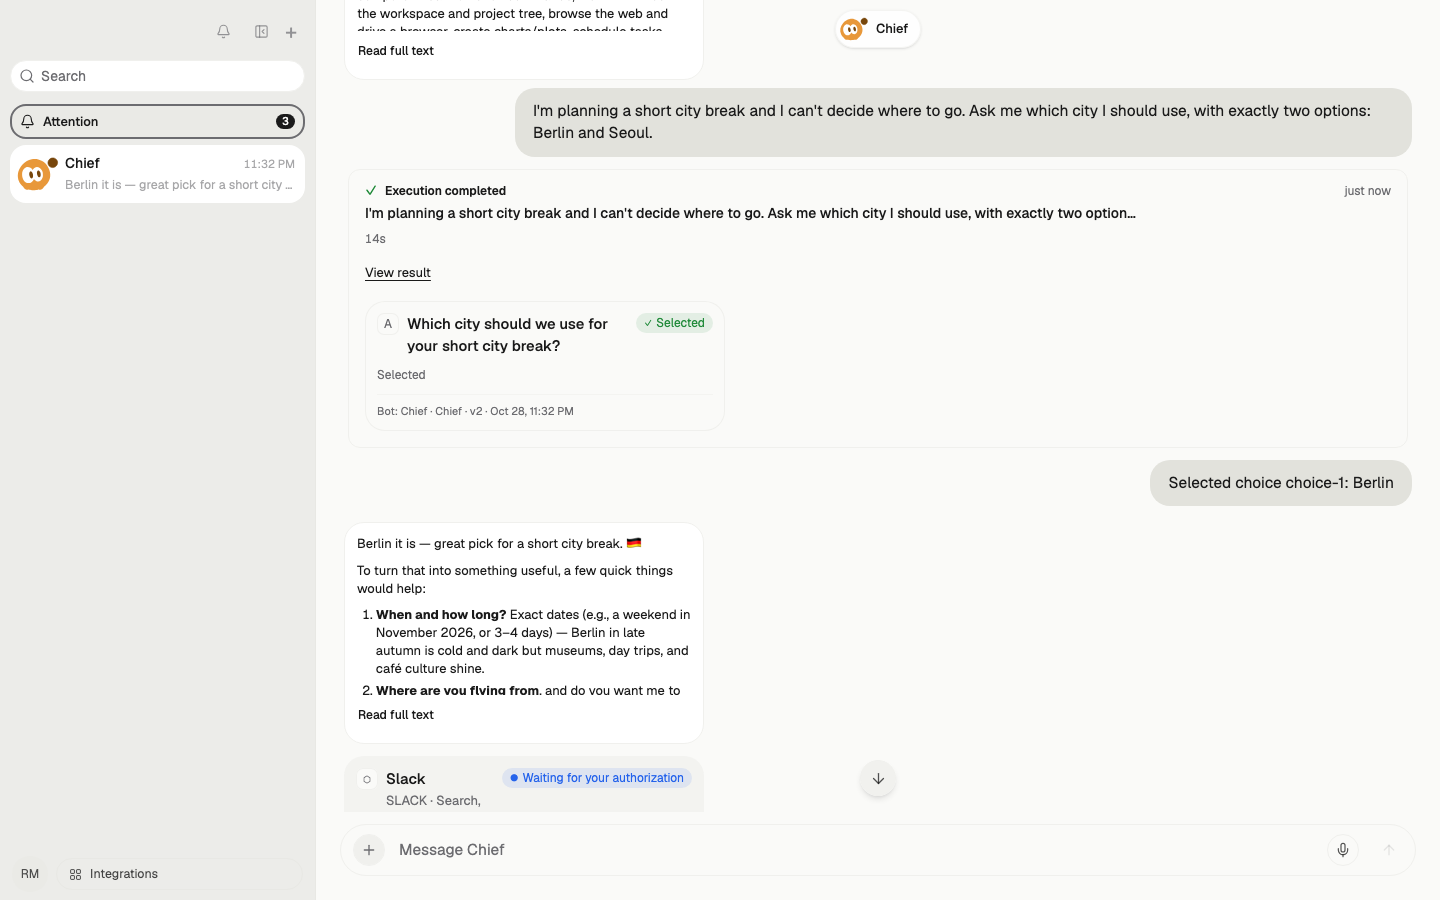
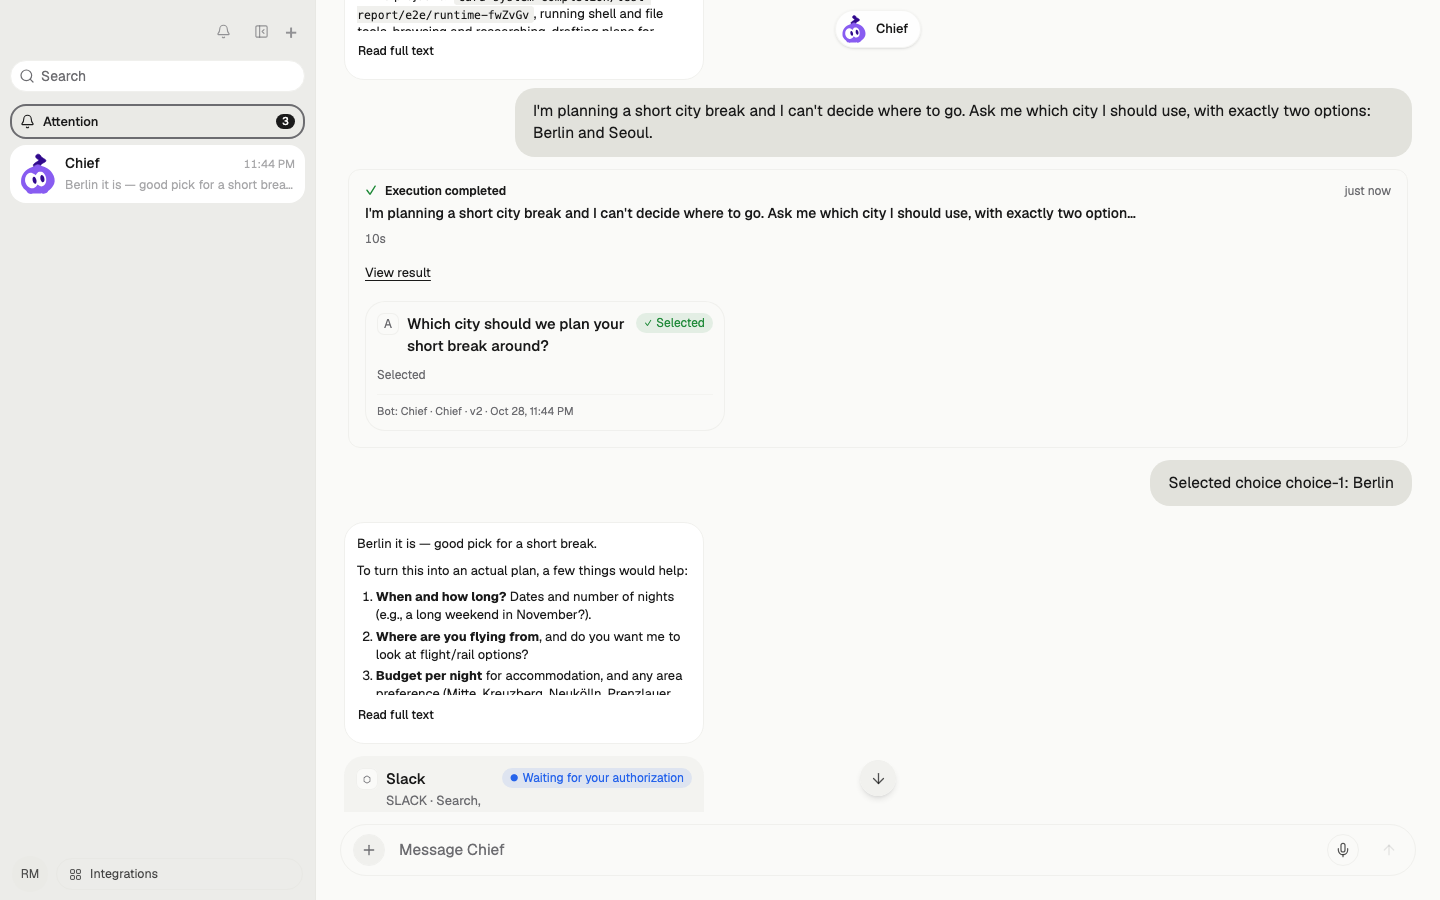
fix(card): give the resumed model the selected choice label——真模型实跑 qwen3.8-max 发现 choice 恢复把 choice-N wire id 当作 ask_user 结果传回模型（用户选 Berlin，模型却回复 Seoul）；新增 resumeAnswerFromAsk 只把 choice 的 id 映射为 label，free-text 与 approval/plan/budget action id 保持不变；单测 4/4；修复后 qwen3.8-max 1/1（29.8s）与 qwen3.8-flash 1/

diff --git a/packages/adapters/src/executor.ts b/packages/adapters/src/executor.ts
@@ -777,6 +777,25 @@ export function isProtectedComputerLifecycleCommand(command: string): boolean {
   return false;
 }
 
+export type AnsweredAskForResume = {
+  status?: string;
+  answer?: string;
+  actions?: ReadonlyArray<{ id: string; label: string }>;
+};
+
+/**
+ * A choice ask stores the opaque action id (`choice-N`). The resumed Runtime
+ * hands this string to the model as the ask_user tool result, so the model must
+ * receive the human label the user actually chose, not the wire id.
+ */
+export function resumeAnswerFromAsk(block: AnsweredAskForResume): string | undefined {
+  if (block.status !== "answered" || typeof block.answer !== "string") return undefined;
+  const choice = block.actions?.find(
+    (action) => action.id === block.answer && /^choice-\d+$/.test(action.id),
+  );
+  return choice?.label ?? block.answer;
+}
+
 /** Cap the roster so a large Space cannot flood the prompt. */
 const BOT_DIRECTORY_LIMIT = 40;
 
@@ -5867,13 +5886,7 @@ export function createRunExecutor(deps: ExecutorDeps) {
               block.kind === "ask"
             ) {
               foundAsk = true;
-              if (
-                "status" in block &&
-                block.status === "answered" &&
-                "answer" in block &&
-                typeof block.answer === "string"
-              )
-                resumeAnswer = block.answer;
+              resumeAnswer = resumeAnswerFromAsk(block);
               break;
             }
           }

diff --git a/packages/adapters/src/executor-resume-answer.test.ts b/packages/adapters/src/executor-resume-answer.test.ts
@@ -1,0 +1,49 @@
+import { describe, expect, it } from "vitest";
+import { resumeAnswerFromAsk } from "./executor.js";
+
+describe("resumeAnswerFromAsk", () => {
+  it("resolves a choice id to the label the model must see", () => {
+    expect(
+      resumeAnswerFromAsk({
+        status: "answered",
+        answer: "choice-2",
+        actions: [
+          { id: "choice-1", label: "Berlin" },
+          { id: "choice-2", label: "Seoul" },
+        ],
+      }),
+    ).toBe("Seoul");
+  });
+
+  it("keeps free-text answers unchanged", () => {
+    expect(resumeAnswerFromAsk({ status: "answered", answer: "Paris" })).toBe("Paris");
+  });
+
+  it("does not rewrite approval or plan action ids", () => {
+    expect(
+      resumeAnswerFromAsk({
+        status: "answered",
+        answer: "allow",
+        actions: [{ id: "allow", label: "Allow once" }],
+      }),
+    ).toBe("allow");
+    expect(
+      resumeAnswerFromAsk({
+        status: "answered",
+        answer: "approve",
+        actions: [{ id: "approve", label: "Approve plan" }],
+      }),
+    ).toBe("approve");
+  });
+
+  it("returns undefined until the ask is answered", () => {
+    expect(
+      resumeAnswerFromAsk({
+        status: "pending",
+        answer: "choice-1",
+        actions: [{ id: "choice-1", label: "Berlin" }],
+      }),
+    ).toBeUndefined();
+    expect(resumeAnswerFromAsk({ status: "answered" })).toBeUndefined();
+  });
+});

diff --git a/docs/cards/CARD-01E-delivery.md b/docs/cards/CARD-01E-delivery.md
@@ -33,6 +33,7 @@
 - **旧 `connect` 只读回放**：`apps/web/src/pages/Shell.tsx` 渲染存量的连接状态卡（名称、首字母、Connected/Not connected），没有按钮或链接；E2E fixture 与 `card-display-content.spec.ts` 断言零可操作元素。
 - **过期/归档/失权即时退出**：`attention.postgres.test.ts` 新增过期即时移除、群内发卡 Bot 归档、目标群失去管理权限三个用例；总数在三种情况下都精确回落。
 - **FIX-127 后的过期 E2E 断言**：`apps/web/e2e/approval-resume.spec.ts` 仍期待“回答后再次提问”的旧脚本行为，自 `b08c6e1`（FIX-127）起与持久化 Runtime 契约相反。已在 base `8054cac` 上复现同一红，再按“回答后同一 Run 完成、不再产生第二张 pending 卡”更新断言；更新后通过。
+- **choice 答案 label**：真模型验证暴露 selected choice 恢复时把 `choice-N` wire id 交给模型（用户选 Berlin，`qwen3.8-max` 回复 Seoul）。`resumeAnswerFromAsk` 现在只把 choice 的 id 解析成 label；free-text、approval/plan/budget action id 保持原样。单测 4/4，max 复跑回复 Berlin。
 
 ### 3. Gate 与兼容
 
@@ -73,14 +74,14 @@
 | `pnpm db:generate` | exit 0 |
 | `pnpm lint` | 0 error（76 warning / 5 info，均为既有） |
 | `pnpm check` | 18/18 tasks successful |
-| `pnpm test:unit` | 458/459 files；**5541 passed / 2 skipped / 4 failed**。4 条失败全部是 `infra/sandboxes/supervisor/src/computer-loopback.test.ts` 的 401；在 base `8054cac` 上同红（`logs/supervisor-baseline-red.txt`），与本 diff 无关 |
-| `pnpm test:postgres` | 最终在无并发负载下完整重跑：**465/465 passed**（51/51 files）。一次与 unit/check/build 并行时曾出现 `wakeup.postgres.test.ts` 的 3 条 500/600ms 窗口失败，单独重跑即绿（`logs/postgres-full.txt`）。`attention.postgres.test.ts` **16/16** |
+| `pnpm test:unit` | 458/459 files；**5543 passed / 2 skipped / 4 failed**（最终树）。4 条失败全部是 `infra/sandboxes/supervisor/src/computer-loopback.test.ts` 的 401；在 base `8054cac` 上同红（`logs/supervisor-baseline-red.txt`），与本 diff 无关 |
+| `pnpm test:postgres` | 最终树（choice label 修复后）无并发完整重跑：**465/465 passed**（51/51 files）。早前一次与 unit/check/build 并行时曾出现 `wakeup.postgres.test.ts` 的 3 条 500/600ms 窗口失败，单独重跑即绿（`logs/postgres-full.txt`）。`attention.postgres.test.ts` **16/16** |
 | `pnpm test:inventory` | 0 errors |
 | `pnpm test:ci-select` | pass |
 | `pnpm test:docs` | pass |
 | `pnpm --filter @rakazo/web build` | 首次 `✓ built in 16.33s`（3765 modules）；最终树增量 `✓ built in 3.12s` |
 | gate-on E2E（任务书指定 5 个 spec） | **13/13 passed**（3.2m）；`logs/e2e-gate-on.txt` |
-| 真模型 E2E（AgentScope Java Runtime + DashScope `qwen3.8-flash`） | **1/1 passed**（36.3s）：真实模型调用 `ask_user` → 统一 Input 卡 → Attention 行 → 选择答案 → Run 恢复并终态；`logs/real-model-e2e.txt` |
+| 真模型 E2E（AgentScope Java Runtime + DashScope） | `qwen3.8-flash` 修复后 **1/1 passed**（36.3s）；`qwen3.8-max` 修复前 **1/1 passed**（30.8s）、choice label 修复后 **1/1 passed**（29.8s）：真实模型调用 `ask_user` → 统一 Input 卡 → Attention 行 → 选择答案 → Run 恢复并终态；`logs/real-model-e2e*.txt`、`logs/executor-resume-answer.txt` |
 | gate-off legacy E2E（intervention-region / plan-review / mcp-approval-card / approval-resume） | 首轮 8 passed + `approval-resume` 过期断言红；该断言在 base `8054cac` 同样红，按 FIX-127 契约更新后 **1/1 passed**；其余 8 条保持绿 |
 
 Attention 变异验证（`logs/attention-mutation-*.txt`）：
@@ -96,7 +97,7 @@ Attention 变异验证（`logs/attention-mutation-*.txt`）：
 - 展示卡：`display-blocks-desktop-1440.png`、`display-blocks-390.png`、`display-blocks-375.png`、`display-blocks-390-dark.png`、`display-chart-detail-desktop.png`、`display-html-detail-desktop.png`。
 - 交互卡：`card-ui-tool-approval.png`、`card-ui-mcp-desktop-1440.png`、`card-ui-mcp-390.png`、`card-ui-mcp-375.png`、`card-ui-mcp-terminal-dark.png`、A10 `card-ui-outbound-*` 系列。
 - 群成员：`X-GROUP-APPROVE-1440.png`、`X-GROUP-APPROVE-terminal-1440.png`、`X-GROUP-FAIL-1440.png`、`X-GROUP-source-390.png`、`X-GROUP-target-1440.png`、`X-RETURN-source-390.png`。
-- 真模型：`real-model-ask-card-1440.png`、`real-model-attention-1440.png`、`real-model-answered-1440.png`。
+- 真模型：`real-model-ask-card-1440.png`、`real-model-attention-1440.png`、`real-model-answered-1440.png`（flash）；`real-model-max-ask-card-1440.png`、`real-model-max-attention-1440.png`、`real-model-max-answered-1440.png`（max，修复后）；`real-model-max-answered-before-label-fix.png`（max，修复前误答 Seoul 的对照）。
 - gate-off：`legacy-approval-input-request.png`、`legacy-approval-resumed.png`、`legacy-approval-stopped-run.png`。
 
 以上截图均来自真实页面与服务端投影；已与 `docs/cards/source/card-unification-v2/mockup/cards-hifi-v4/` 的 A1/N1 及 Roundtable X-GROUP 原型并排检查，结构与视觉语言一致（文字因 E2E 语言为英文）。
@@ -110,7 +111,7 @@ Attention 变异验证（`logs/attention-mutation-*.txt`）：
 ## 已知限制
 
 - Attention 的精确 `total` 是投影窄表的索引 `COUNT`，成本 ∝ 当前 pending 投影行数（即用户待处理队列本身），不是 O(1)；消息内审批仍按 pending 块集合读取（GIN 命中，不随历史消息量增长）。详见 [attention query bounds](./attention-query-bounds.md#6-card-01e-落地2026-10-28)。
-- 本机真模型补充验证：AgentScope Java Runtime + DashScope `qwen3.8-flash`，`card-real-model.spec.ts` 1/1 通过；该 spec 需要 `REAL_MODEL_API_KEY` 才执行，CI/无 key 环境跳过。其余 E2E 使用仓库 deterministic scripted runtime，API/Worker/PostgreSQL/Web 都是真实进程。
+- 本机真模型补充验证：AgentScope Java Runtime + DashScope `qwen3.8-flash` 与 `qwen3.8-max`，`card-real-model.spec.ts` 1/1 通过；该 spec 需要 `REAL_MODEL_API_KEY` 才执行，CI/无 key 环境跳过。其余 E2E 使用仓库 deterministic scripted runtime，API/Worker/PostgreSQL/Web 都是真实进程。
 - 视觉证据是实际页面截图与批准原型的人工并排检查，仓库当前没有 `toHaveScreenshot` 像素基线，因此不是像素级 diff。
 - 生产 gate 是否开启由产品负责人决定；本分支保持 `false`。
 

diff --git a/docs/cards/evidence/card-01e/README.md b/docs/cards/evidence/card-01e/README.md
@@ -44,7 +44,9 @@ Branch: `codex/card-system-completion`
 
 ### 真模型（AgentScope Java Runtime + DashScope qwen3.8-flash）
 
-`real-model-ask-card-1440.png`、`real-model-attention-1440.png`、`real-model-answered-1440.png`：真实模型通过 `ask_user` 产生统一 Input 卡、同一请求出现在 Attention、选择答案后真实 Run 恢复并终态。截图中的另外 3 条 pending app 连接审批来自 onboarding，是同一读模型的真实业务行，用于验证队列不只显示测试 ask。
+`real-model-ask-card-1440.png`、`real-model-attention-1440.png`、`real-model-answered-1440.png`（qwen3.8-flash）与 `real-model-max-*.png`（qwen3.8-max）：真实模型通过 `ask_user` 产生统一 Input 卡、同一请求出现在 Attention、选择答案后真实 Run 恢复并终态。截图中的另外 3 条 pending app 连接审批来自 onboarding，是同一读模型的真实业务行，用于验证队列不只显示测试 ask。
+
+真模型还暴露并验证了一个 choice 缺陷：修复前用户选 Berlin，恢复请求给模型的是 wire id `choice-1`，`qwen3.8-max` 因此回复 "Seoul it is"（`real-model-max-answered-before-label-fix.png`）；`resumeAnswerFromAsk` 把 `choice-N` 解析成 label 后，同一流程回复 "Great choice! Berlin is a fantastic destination…"（`real-model-max-answered-1440.png`）。
 
 ## 测试摘要与红绿证据
 
@@ -60,9 +62,13 @@ Branch: `codex/card-system-completion`
 - `postgres-full.txt`：最终无并发完整重跑 `pnpm test:postgres` → **51/51 files, 465/465 passed**；一次并发运行中出现过 `wakeup.postgres.test.ts` 的 3 条 500/600ms 窗口失败，单独重跑即绿。
 - `checks.txt`：`pnpm lint` 0 error / 76 warning / 5 info；`pnpm check` 18/18；`pnpm --filter @rakazo/web build` 首次 16.33s、最终增量 3.12s；`check-docs` 169 个 markdown 链接正常。
 - `real-model-e2e.txt`：`card-real-model.spec.ts` 在 AgentScope Java Runtime + DashScope `qwen3.8-flash` 下 **1 passed (36.3s)**；key 只来自 `REAL_MODEL_API_KEY`，未进入仓库、日志或截图。
+- `real-model-e2e-max.txt`：同一 spec 用 `REAL_MODEL_ID=qwen3.8-max` 修复前 **1 passed (30.8s)**（截图显示模型误读为 Seoul）。
+- `real-model-e2e-max-after-fix.txt`：`resumeAnswerFromAsk` 修复后同 spec **1 passed (29.8s)**，截图回复 Berlin。
+- `real-model-e2e-flash-after-fix.txt`：同一修复后用默认 `qwen3.8-flash` **1 passed (36.3s)**。
+- `executor-resume-answer.txt`：`executor-resume-answer.test.ts` **4/4**（choice→label、free-text 不变、approval/plan id 不变、pending 返回 undefined）。
 
 ## 尚未覆盖
 
-- AgentScope 真模型链路已用 DashScope `qwen3.8-flash` 跑通；该 spec 需要 `REAL_MODEL_API_KEY` 才执行，CI/无 key 环境会跳过。其余 deterministic spec 仍使用 scripted runtime，API/Worker/PostgreSQL/Web 为真实进程。
+- AgentScope 真模型链路已用 DashScope `qwen3.8-flash` 与 `qwen3.8-max` 跑通；该 spec 需要 `REAL_MODEL_API_KEY` 才执行，CI/无 key 环境会跳过。其余 deterministic spec 仍使用 scripted runtime，API/Worker/PostgreSQL/Web 为真实进程。
 - 像素级视觉 diff；当前为实际截图与批准原型的人工并排检查。
 - gate-on 的 takeover 卡片单独 E2E；takeover 生产入口由既有 gate-off `computer-needs-you-card.spec.ts` 与统一卡组件/单测覆盖，未在本轮重跑。
